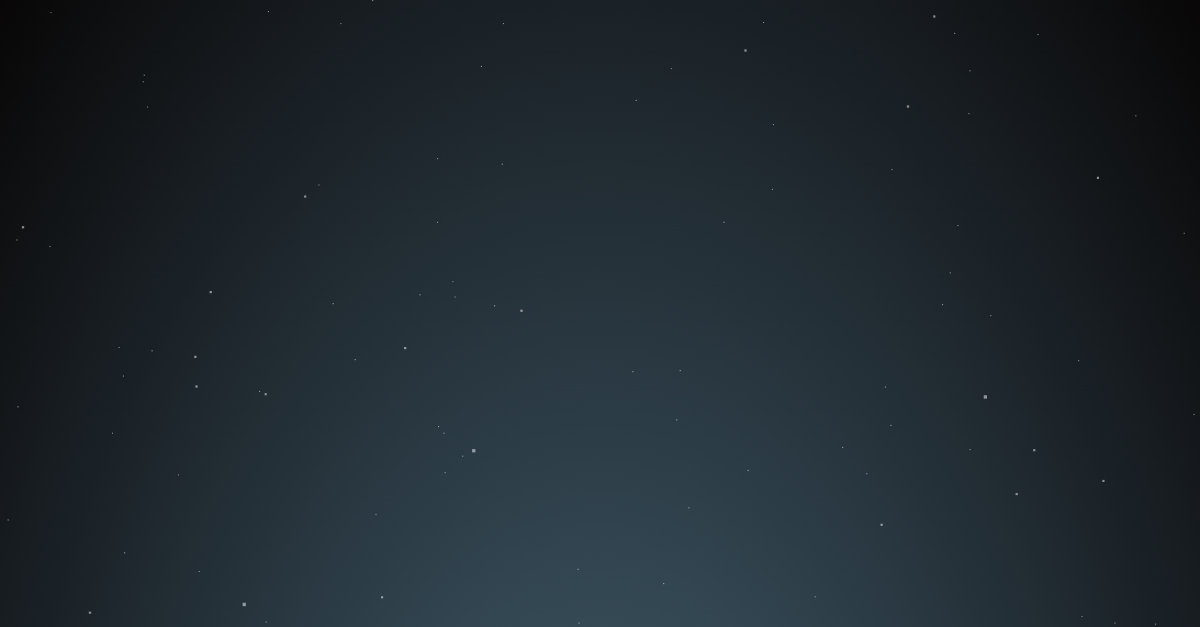
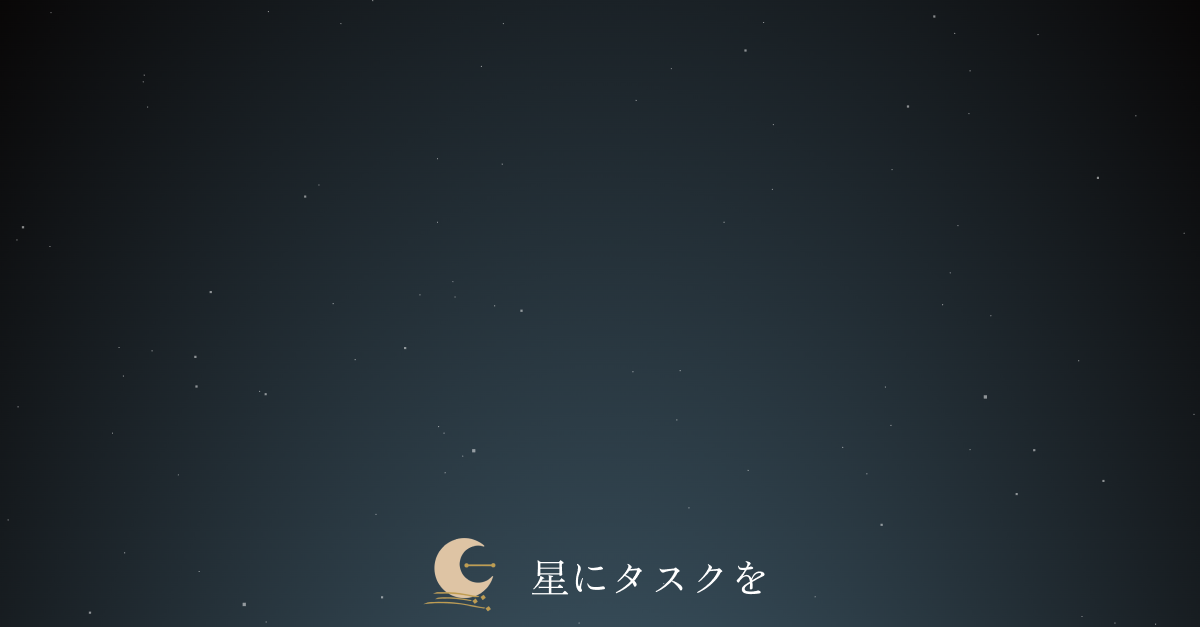
add: ogpに画像を付与する際の文字と画像のバランスを調整し、bg_imageを更新

Changed region(s): [[0.3392, 0.8485, 0.6475, 0.9697]]

diff --git a/app/controllers/concerns/ogp_creator.rb b/app/controllers/concerns/ogp_creator.rb
@@ -1,45 +1,45 @@
 # frozen_string_literal: true
 
 class OgpCreator
+  # ogp_bgは1200x627の画像
+
   BASE_IMAGE_PATH = "./app/assets/images/ogp_bg.png"
   GRAVITY = "center"
-  TEXT_POSITION = "0,0"
   FONT = "./app/assets/fonts/ZenOldMincho-Regular.ttf"
-  FONT_SIZE = 65
-  INDENTION_COUNT = 16
-  ROW_LIMIT = 8
+  FONT_SIZE = 50
+  INDENTION_COUNT = 10
+  ROW_LIMIT = 5
+  ROUND_IMAGE_POSITION = "+150+168"
+  COLOR = "#EAF2F5"
 
   def self.build(text, image_name = nil)
+    # 三項演算子の時は分かりやすさのために.nil?で分岐してます
+    # image_nameがnilの場合は、centerに配置
+    text_position = "#{image_name.nil? ? '0' : '200'}, -20"
+
     text = prepare_text(text)
-    image = MiniMagick::Image.open(BASE_IMAGE_PATH)
+    base_image = MiniMagick::Image.open(BASE_IMAGE_PATH)
 
     if image_name
-      thumb_path = "./app/assets/images/#{image_name}.webp"
-      thumb_image = MiniMagick::Image.open(thumb_path)
+      # thumb_imageから円形にくりぬき、ボーダーを付与した画像を作成
+      rounded_thumb = rounded_thumb(image_name)
 
-      MiniMagick::Tool::Convert.new do |img|
-        img.size "#{thumb_image.height}x#{thumb_image.width}"
-        img << "xc:transparent"
-        img.fill thumb_path
-        img.draw "translate 600, 600 circle 0,0 600,0"
-        img.trim
-        img << "out_put.png"
-      end
-
-      thumb_image = MiniMagick::Image.open("out_put.png").resize "200x200"
-
-      image = image.composite(thumb_image) do |c|
+      # くりぬいた画像をbase_imageに合成
+      base_image = base_image.composite(rounded_thumb) do |c|
         c.compose "Over"
-        c.geometry "+20+20"
+        c.geometry ROUND_IMAGE_POSITION
+        c.border "5"
+        c.bordercolor "transparent"
       end
     end
 
-    image.combine_options do |config|
+    # base_imageにテキストを合成
+    base_image.combine_options do |config|
       config.font FONT
-      config.fill "red"
+      config.fill COLOR
       config.gravity GRAVITY
       config.pointsize FONT_SIZE
-      config.draw "text #{TEXT_POSITION} '#{text}'"
+      config.draw "text #{text_position} '#{text}'"
     end
   end
 
@@ -47,5 +47,37 @@ class OgpCreator
     text.to_s.scan(/.{1,#{INDENTION_COUNT}}/)[0...ROW_LIMIT].join("\n")
   end
 
-  private_class_method :prepare_text
+  def self.rounded_thumb(image_name)
+    thumb_path = "./app/assets/images/#{image_name}.webp"
+    thumb_image = MiniMagick::Image.open(thumb_path)
+
+    # 画像を丸く切り抜き、画像の周りは白色で塗りつぶす
+    MiniMagick::Tool::Convert.new do |img|
+      img.size "#{thumb_image.height}x#{thumb_image.width}"
+      img << "xc:transparent"
+      img.fill thumb_path
+      img.draw "translate 600, 600 circle 0,0 580,0"
+      img.trim
+      img.border "20x20"
+      img.bordercolor COLOR
+      img << "out_put.png"
+    end
+
+    out_put_image = MiniMagick::Image.open("out_put.png")
+
+    # 上記で作成した画像を一回り大きく円形にくりぬくことで、白いボーダーを付与
+    MiniMagick::Tool::Convert.new do |img|
+      img.size "#{out_put_image.height}x#{out_put_image.width}"
+      img << "xc:transparent"
+      img.fill "out_put.png"
+      img.draw "translate 600, 600 circle 0,0 600,0"
+      img.trim
+      img << "rounded_thumb.png"
+    end
+
+    # くりぬいた画像をbase_imageに合成するために、サイズを250x250にリサイズ
+    MiniMagick::Image.open("rounded_thumb.png").resize "250x250"
+  end
+
+  private_class_method :prepare_text, :rounded_thumb
 end
